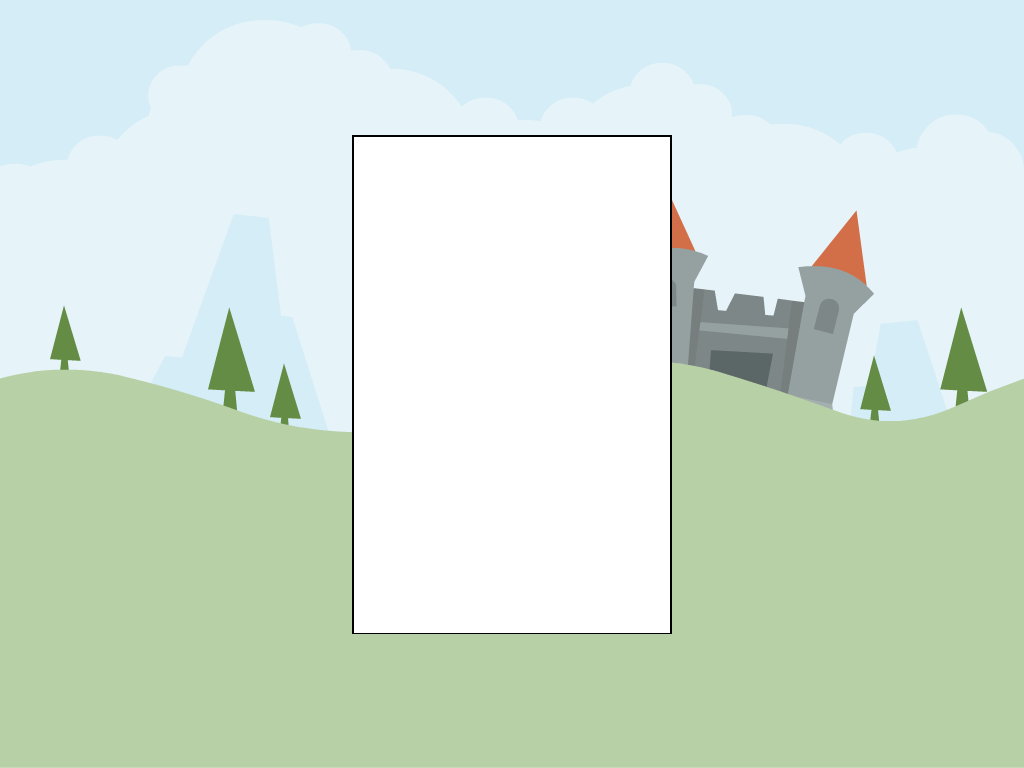
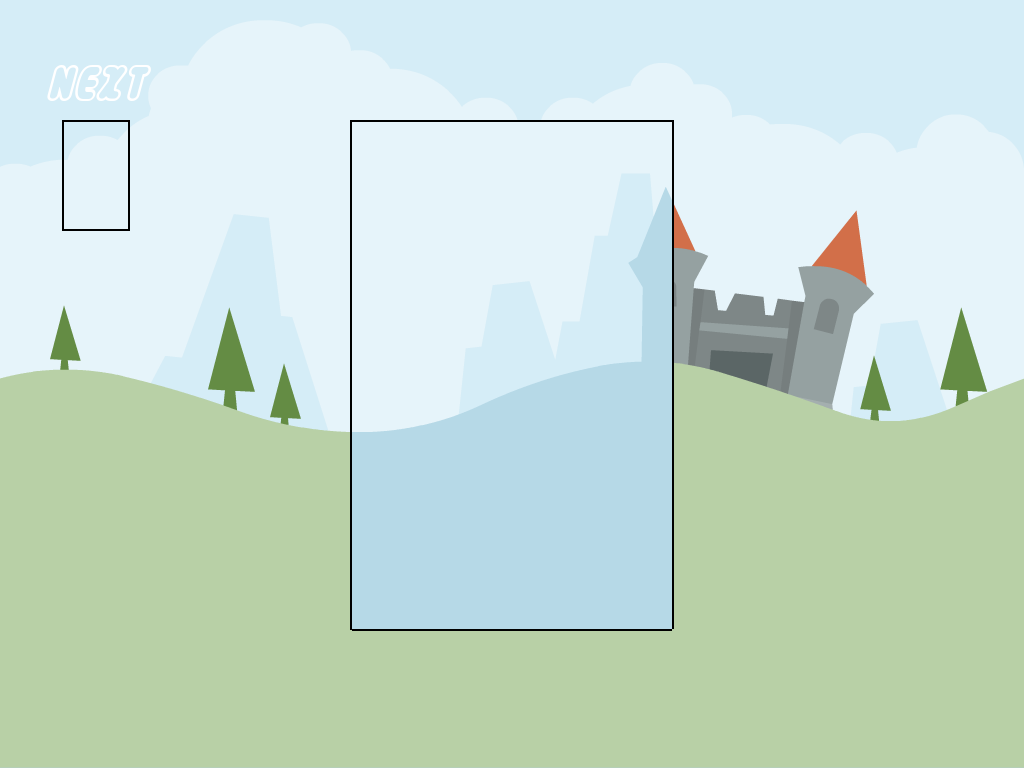
poprawienie tla, przesuniecie klocka z poczekalni

Changed region(s): [[0.3438, 0.1562, 0.6562, 0.8438], [0.0312, 0.0625, 0.1562, 0.125]]

diff --git a/legotris.go b/legotris.go
@@ -65,6 +65,8 @@ func run() {
 		panic(err)
 	}
 
+	//win.SetSmooth(true)
+
 	// załadowanie fonta
 	face, err := loadTTF("Legothick.ttf", 80)
 	if err != nil {
@@ -331,7 +333,7 @@ func run() {
 		}
 		//rysowanie klocka nastepnego w poczekalni
 		for i := 0; i < 4; i++ {
-			coloredBlocks[figureColorNext].Draw(win, pixel.IM.Moved(pixel.V(figureNext[i].X*32.0+16.0, figureNext[i].Y*25+16.0+134)))
+			coloredBlocks[figureColorNext].Draw(win, pixel.IM.Moved(pixel.V(figureNext[i].X*32.0+16.0+64, figureNext[i].Y*25+16.0+134)))
 		}
 		//rysowanie wyniku
 		txt.Draw(win, pixel.IM)
